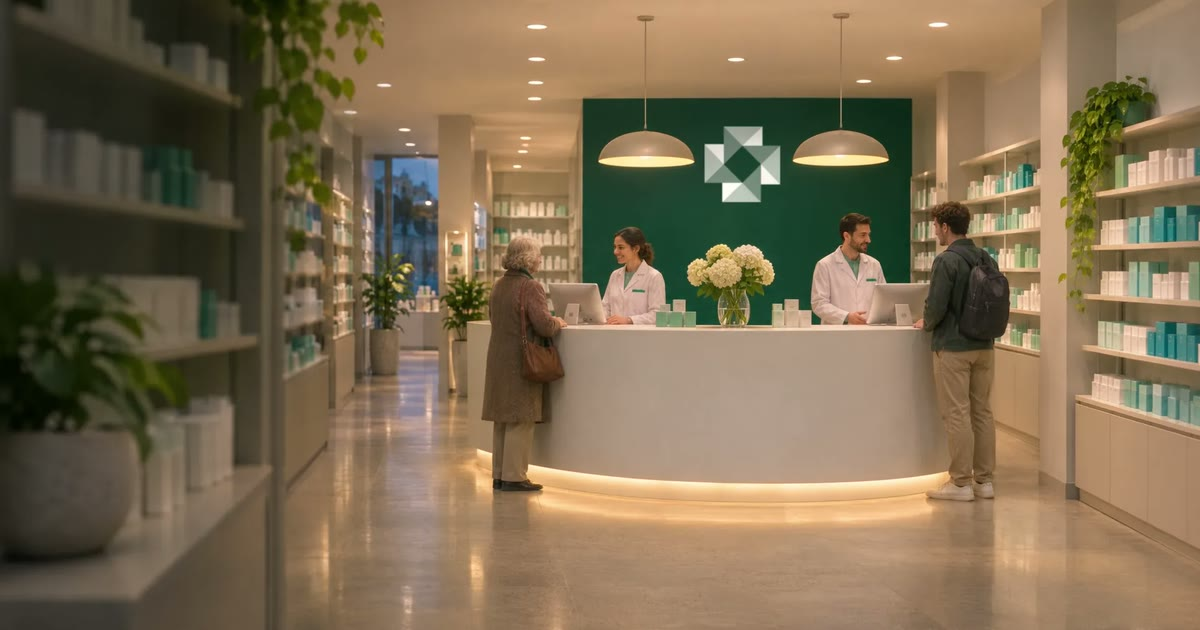
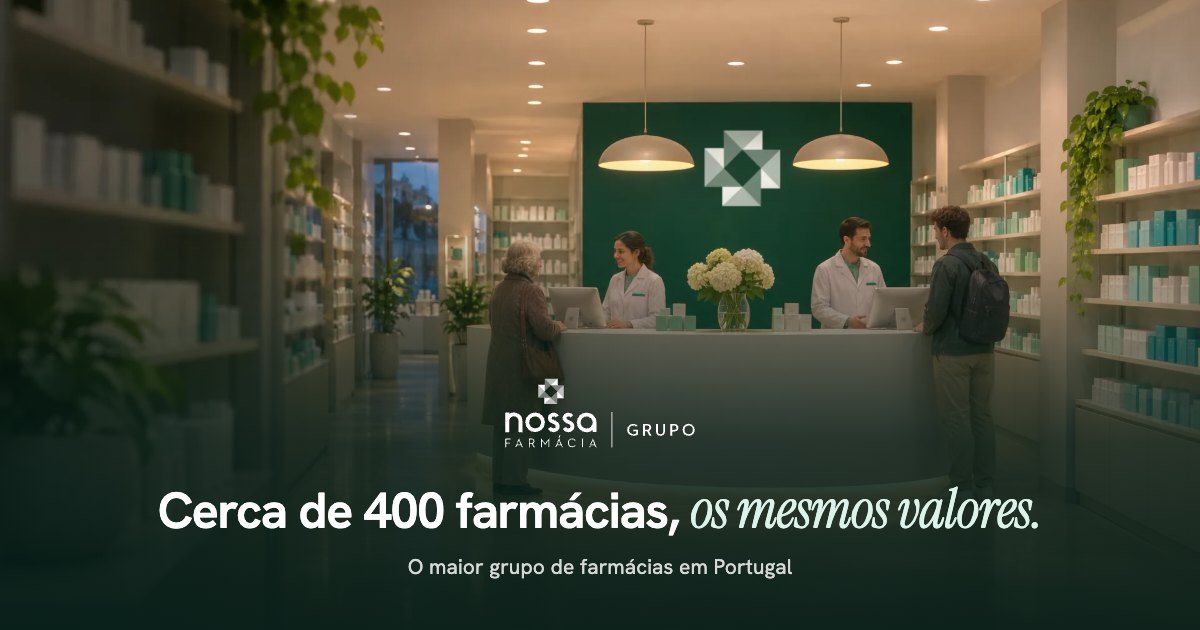
fix(site): imagem de partilha visível fora do domínio de produção
O og:image e o og:url apontavam para grupo.nossafarmacia.pt, que ainda
serve o site antigo e devolve 404 para a imagem, por isso as
pré-visualizações dos links saíam sem imagem. Fora de produção o build
passa a apontá-los para o endereço publicado (PT, EN e ES); em produção
ficam como estão.

Nova imagem 1200×630: o interior da hero com o logótipo e a frase
"Cerca de 400 farmácias, os mesmos valores." ao centro, para resistir
aos cortes quadrados das apps. Texto alternativo atualizado em PT, EN e
ES.

diff --git a/site/i18n.js b/site/i18n.js
@@ -14,9 +14,9 @@ window.GNF_I18N = {
     en: "The largest pharmacy group in Portugal: around 400 pharmacies sharing the same values. Discover our services, our value proposition and how to join the Group.",
     es: "El mayor grupo de farmacias de Portugal: cerca de 400 farmacias con los mismos valores. Conozca los servicios, la propuesta de valor y cómo unirse al Grupo."
   },
-  "Balcão de uma farmácia do Grupo Nossa Farmácia, com farmacêuticos a atender clientes.": {
-    en: "Counter of a Grupo Nossa Farmácia pharmacy, with pharmacists serving customers.",
-    es: "Mostrador de una farmacia del Grupo Nossa Farmácia, con farmacéuticos atendiendo a clientes."
+  "Logótipo do Grupo Nossa Farmácia e a frase “Cerca de 400 farmácias, os mesmos valores.” sobre o balcão de uma farmácia do Grupo.": {
+    en: "Grupo Nossa Farmácia logo and the line “Around 400 pharmacies, the same values.” over the counter of a Group pharmacy.",
+    es: "Logotipo del Grupo Nossa Farmácia y la frase “Cerca de 400 farmacias, los mismos valores.” sobre el mostrador de una farmacia del Grupo."
   },
   "Vídeo institucional do Grupo Nossa Farmácia.": {
     en: "Grupo Nossa Farmácia corporate video.",

diff --git a/site/index.html b/site/index.html
@@ -29,7 +29,7 @@
 <meta property="og:image:type" content="image/jpeg">
 <meta property="og:image:width" content="1200">
 <meta property="og:image:height" content="630">
-<meta property="og:image:alt" content="Balcão de uma farmácia do Grupo Nossa Farmácia, com farmacêuticos a atender clientes.">
+<meta property="og:image:alt" content="Logótipo do Grupo Nossa Farmácia e a frase “Cerca de 400 farmácias, os mesmos valores.” sobre o balcão de uma farmácia do Grupo.">
 <meta name="twitter:card" content="summary_large_image">
 <link rel="preload" href="fonts/hanken-grotesk-var.woff2" as="font" type="font/woff2" crossorigin>
 <script>(()=>{const d=document.documentElement;d.classList.add('js');if(d.dataset.lang)return;try{const l=new URLSearchParams(location.search).get('lang');if(l==='en'||l==='es')location.replace(l+'/'+(location.protocol==='file:'?'index.html':'')+location.hash)}catch(e){}})()</script>

diff --git a/README.md b/README.md
@@ -8,7 +8,7 @@ O código-fonte está em `site/`. Um build curto (`npm run build`) gera em `dist
 
 - **GitHub Pages (automático):** cada push na `main` que mexa em `site/`, `scripts/` ou `package*.json` corre o workflow `.github/workflows/pages.yml`, que faz o build e publica o `dist/`. Também se pode correr à mão em Actions → "Publicar site no GitHub Pages" → Run workflow.
 - **Outro servidor:** `npm ci && npm run build` (Node 20 ou mais recente) e copiar o conteúdo de `dist/` para a raiz de `grupo.nossafarmacia.pt`. Configurem a página de erro 404 para `404.html`.
-- **Fora do domínio de produção** (ex.: `nossafarmaciait.github.io/nossa-farmacia/`), o build marca todas as páginas como `noindex`, para o Google não indexar a cópia de testes. Para testar localmente: `DEPLOY_URL=http://localhost:8765/ npm run build` e `python3 -m http.server 8765 -d dist`.
+- **Fora do domínio de produção** (ex.: `nossafarmaciait.github.io/nossa-farmacia/`), o build marca todas as páginas como `noindex`, para o Google não indexar a cópia de testes. Nesse caso o `og:url` e o `og:image` passam a apontar para o endereço publicado, para a pré-visualização dos links funcionar enquanto `grupo.nossafarmacia.pt` ainda serve o site antigo. Para testar localmente: `DEPLOY_URL=http://localhost:8765/ npm run build` e `python3 -m http.server 8765 -d dist`.
 - **Para mudar o domínio:** troquem `https://grupo.nossafarmacia.pt/` no `<head>` do `site/index.html` (canonical, hreflang, Open Graph e dados estruturados) e na constante `SITE_URL` de `scripts/build.mjs`.
 
 ### Pôr o domínio no ar no GitHub Pages
@@ -52,7 +52,7 @@ img/              logótipos GNF (SVG), foto de O Grupo (AVIF/WebP), serviços (
                   premios/: selos PME Líder 2020, 2022-2025 e PME Excelência 2023 e 2025 (WebP transparente)
                   icons/: ícones 192/512 (e versão maskable) do site.webmanifest
 media/            vídeo da hero (MP4 H.264 + WebM VP9, desktop 16:9 e mobile 4:5) e posters (AVIF/WebP)
-                  og-1200x630.jpg: imagem de partilha (Open Graph), recortada do poster da hero
+                  og-1200x630.jpg: imagem de partilha (Open Graph): poster da hero com o logótipo e a frase do Grupo. O modelo está em `higgsfield/og/og-imagem.html` (abrir no Chrome a 1200×630 e capturar); se a imagem mudar, troquem também o `og:image:alt` no `index.html` e no `i18n.js`
                   404.mp4/.webm/.webp: prateleira em loop da página 404 (1280×720, 12 s) e poster
                   proposta/: 9 clips em loop da Proposta de valor (MP4 H.264, 960×720, ~4 s) e posters (WebP)
                   emprego.mp4/.webp: fundo em loop do cartão Emprego (1280×720) e poster
